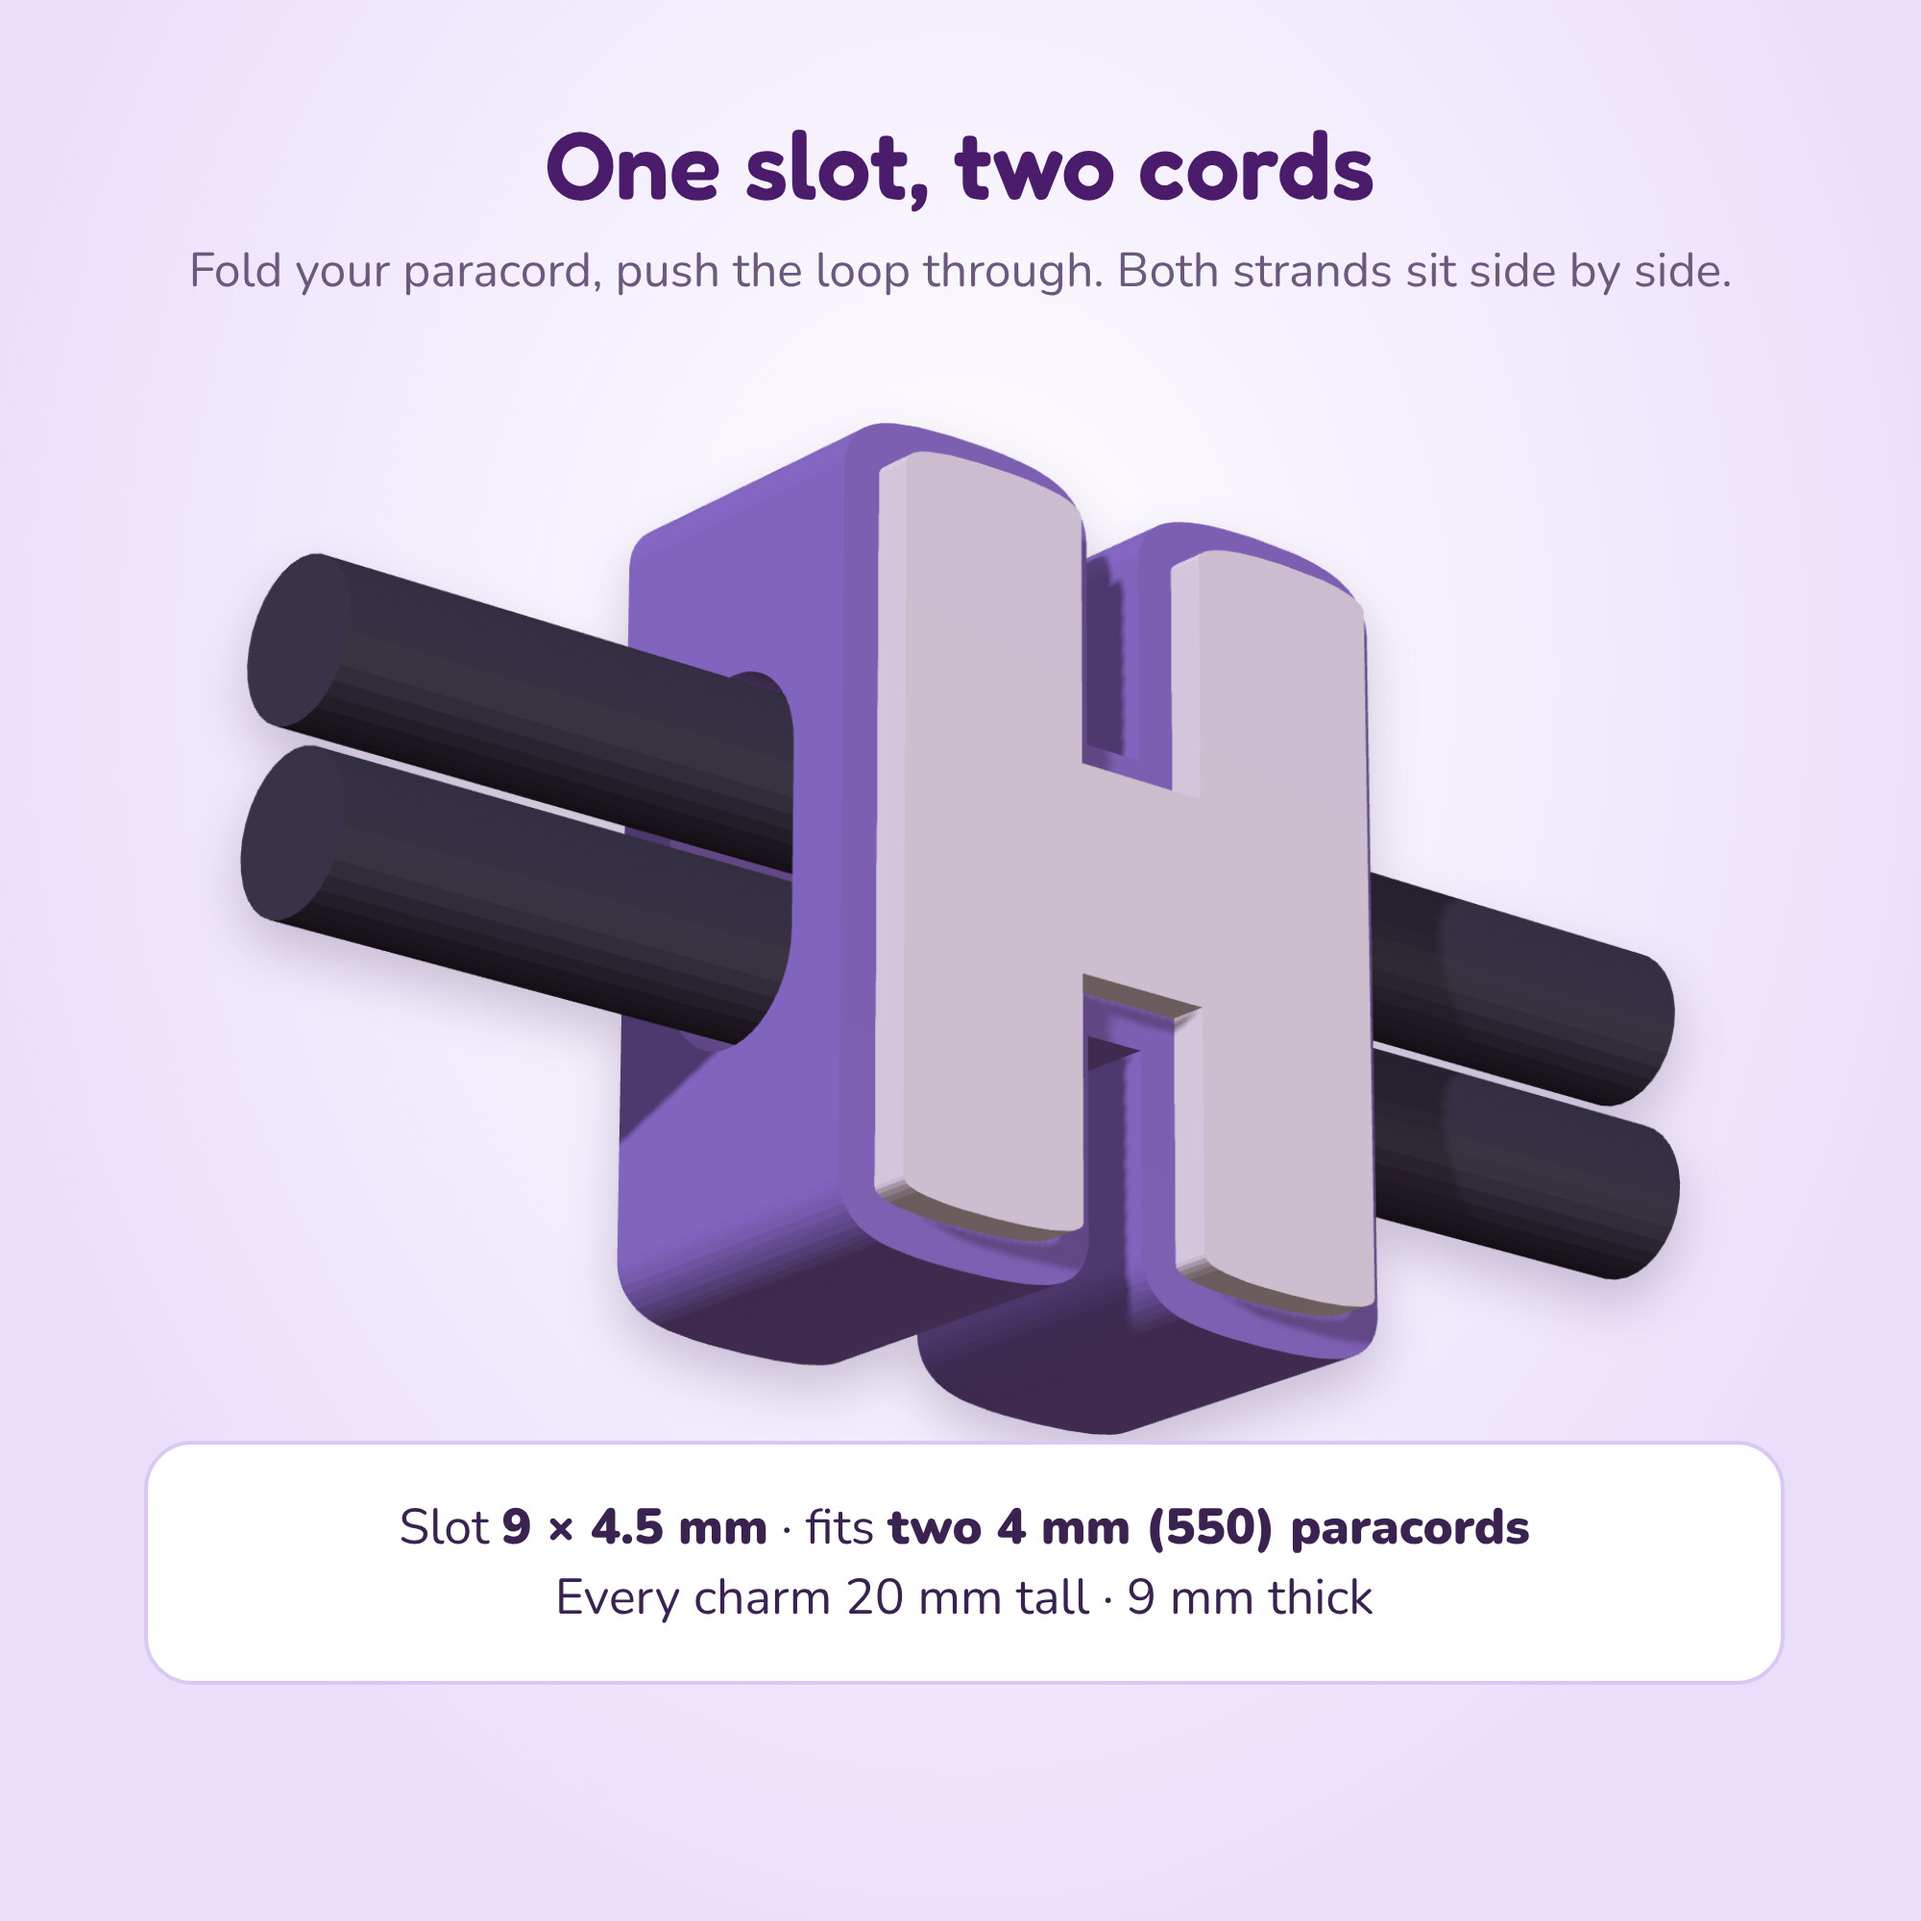
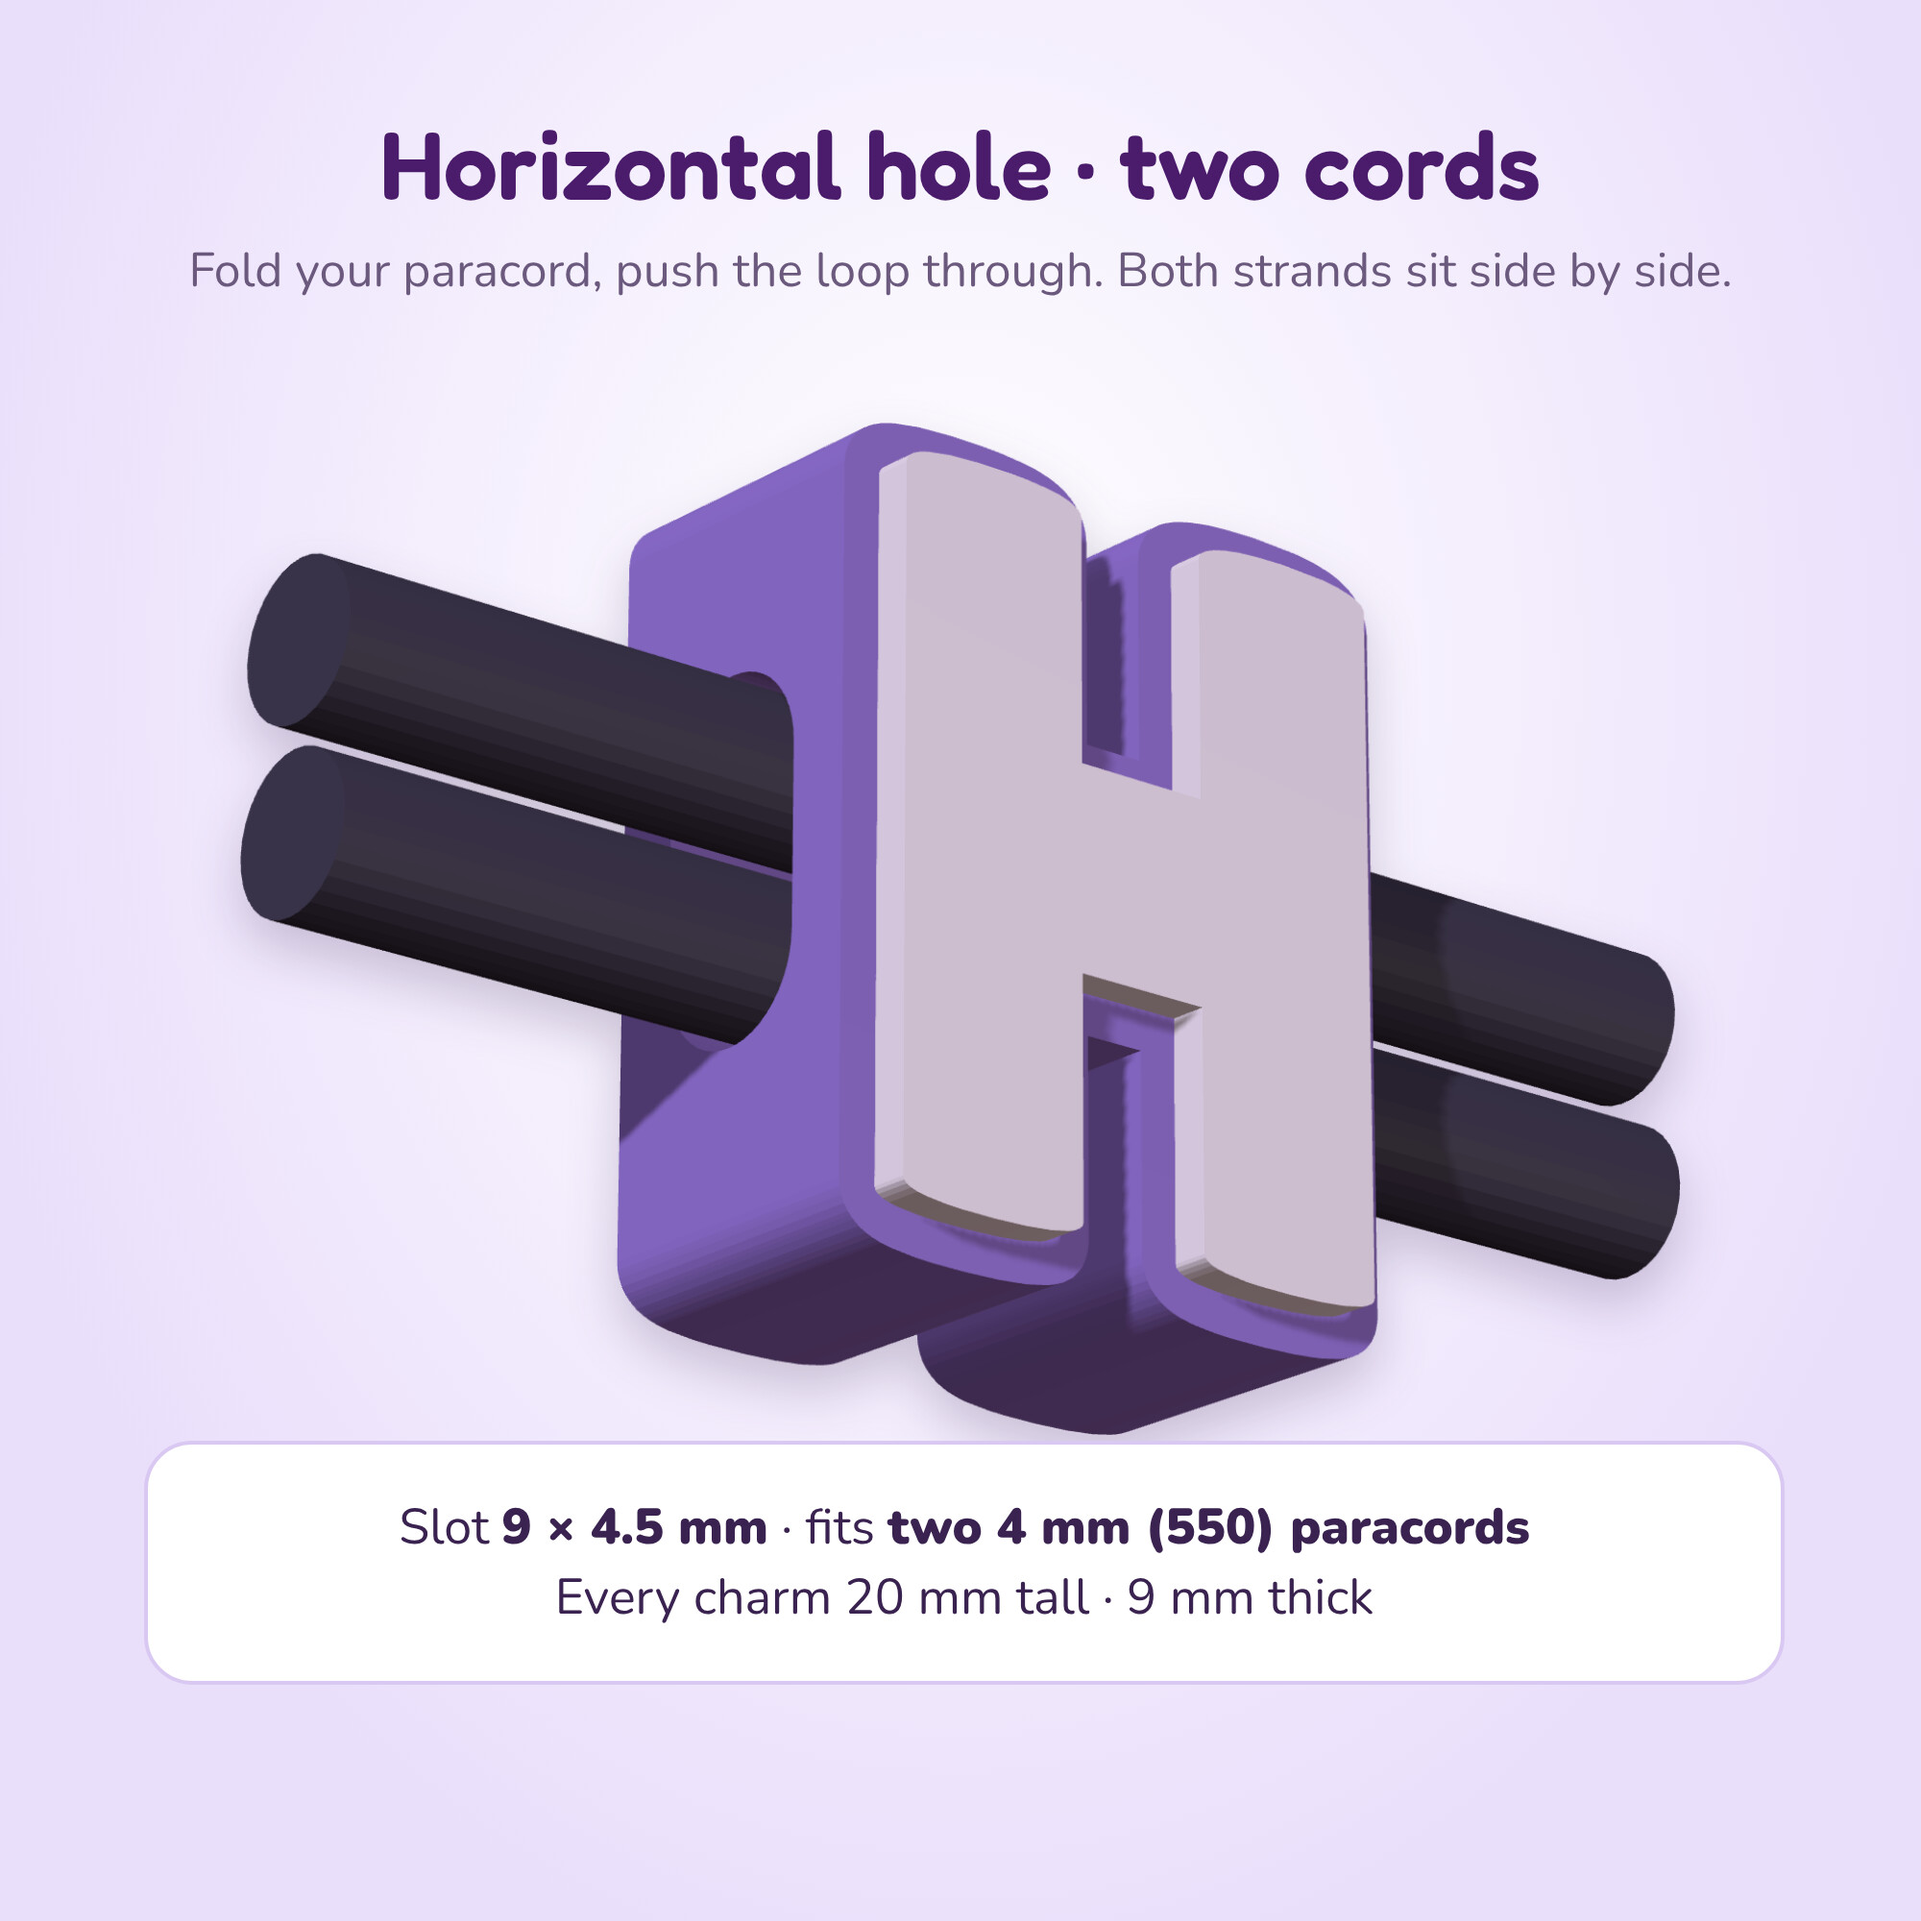
Letter charms listing: say horizontal hole in description, tags and photo 3
Claude-Session: https://claude.ai/code/session_01SZsc6a9atSqVS1P8u2kLAm

Changed region(s): [[0.186, 0.062, 0.806, 0.124]]

diff --git a/docs/etsy/letter-charms/listing-images/listing.html b/docs/etsy/letter-charms/listing-images/listing.html
@@ -23,7 +23,7 @@ img.r{position:absolute;filter:drop-shadow(0 26px 26px rgba(58,35,80,.22))}
 </section>
 
 <section class="s" id="i3">
- <div style="position:absolute;top:110px;width:100%"><h2>One slot, two cords</h2><div class="sub" style="margin-top:16px">Fold your paracord, push the loop through. Both strands sit side by side.</div></div>
+ <div style="position:absolute;top:110px;width:100%"><h2>Horizontal hole · two cords</h2><div class="sub" style="margin-top:16px">Fold your paracord, push the loop through. Both strands sit side by side.</div></div>
  <img class="r" src="src/letter-H-closeup-two-cords.png" style="width:1500px;left:250px;top:440px">
  <div class="card" style="left:150px;top:1500px;width:1580px;text-align:center">Slot <b>9 × 4.5 mm</b> · fits <b>two 4 mm (550) paracords</b><br>Every charm 20 mm tall · 9 mm thick</div>
 </section>

diff --git a/docs/etsy/letter-charms/ETSY-LISTING.md b/docs/etsy/letter-charms/ETSY-LISTING.md
@@ -4,7 +4,7 @@
 - **Upload:** `Letter-Charms-Etsy-Download.zip` (2.6 MB: 36 STL, 2 Bambu 3MF, START-HERE PDF, LICENSE.txt).
 - **Photos (in order):** `listing-images/01…06-listing.jpg` (02 is the cleaned booth ad).
 - **Title (128 characters):** Letter Charms STL A-Z 0-9 for 4mm Paracord, Two Cord Horizontal Hole Chunky Letter Beads, Bambu 3MF, Commercial License Included
-- **Tags (13):** letter beads stl, paracord charms, letter charms stl, chunky letter beads, alphabet beads stl, paracord keychain, 3d print file, bambu 3mf, name keychain stl, commercial license, 4mm paracord beads, keychain charms stl, craft fair item
+- **Tags (13):** letter beads stl, paracord charms, letter charms stl, chunky letter beads, alphabet beads stl, paracord keychain, 3d print file, bambu 3mf, name keychain stl, commercial license, 4mm paracord beads, keychain charms stl, horizontal hole
 - **Description:** `description.txt`.
 
 ## Market check (2026-11-09, Etsy search, ~40 listings)
